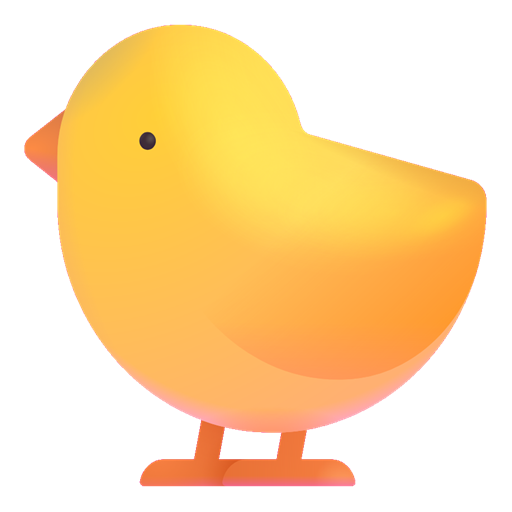
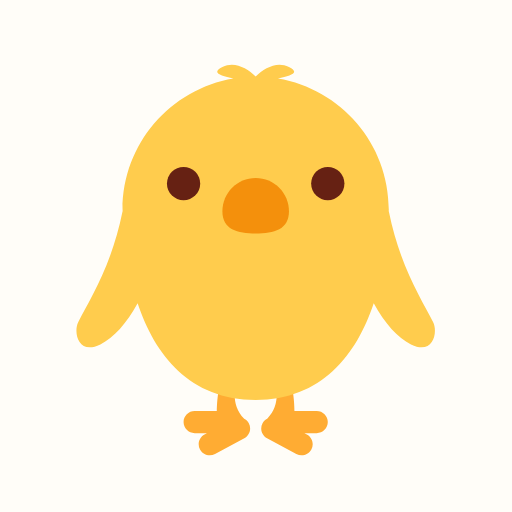
Add files via upload

diff --git a/src/Photo.tsx b/src/Photo.tsx
@@ -2,5 +2,5 @@ import { useState } from 'react'
 import { Thumb } from './Thumb'
 export function Photo({ blob, large = false, alt }: { blob?: Blob; large?: boolean; alt: string }) {
   const [open, setOpen] = useState(false)
-  return <><button type="button" className={large ? 'photo-button large' : 'photo-button'} disabled={!blob} aria-label={`${alt} 사진 확대`} onClick={() => setOpen(true)}><Thumb blob={blob} className={large ? 'representative' : 'record-photo'} alt={alt} fallback="🐥" /></button>{open && <div className="modal-backdrop" onClick={() => setOpen(false)}><section className="modal photo-modal" role="dialog" aria-modal="true" aria-label="사진 확대" onClick={e => e.stopPropagation()}><div className="photo-modal-head"><button type="button" autoFocus onClick={() => setOpen(false)}>닫기</button></div><button type="button" className="expanded-photo-button" aria-label="확대 사진 닫기" onClick={() => setOpen(false)}><Thumb blob={blob} className="expanded-photo" alt={alt} /></button></section></div>}</>
+  return <><button type="button" className={large ? 'photo-button large' : 'photo-button'} disabled={!blob} aria-label={`${alt} 사진 확대`} onClick={() => setOpen(true)}><Thumb blob={blob} className={large ? 'representative' : 'record-photo'} alt={alt} fallback="🐥" /></button>{open && <div className="modal-backdrop" onClick={() => setOpen(false)}><section className="modal photo-modal" role="dialog" aria-modal="true" aria-label="사진 확대" onClick={e => e.stopPropagation()}><div className="photo-modal-head"><button className="btn-ghost" type="button" autoFocus onClick={() => setOpen(false)}>닫기</button></div><button type="button" className="expanded-photo-button" aria-label="확대 사진 닫기" onClick={() => setOpen(false)}><Thumb blob={blob} className="expanded-photo" alt={alt} /></button></section></div>}</>
 }

diff --git a/src/ItemDetail.tsx b/src/ItemDetail.tsx
@@ -194,7 +194,7 @@ export function ItemDetail() {
         <Link className="back" to="/">
           ‹ 위시
         </Link>
-        <div className="detail-header-actions"><button type="button" onClick={() => { setNameDraft(item.name); setNameError(''); setEditOpen(true) }}>수정</button>
+        <div className="detail-header-actions"><button className="btn-ghost" type="button" onClick={() => { setNameDraft(item.name); setNameError(''); setEditOpen(true) }}>수정</button>
         <button className="btn-danger" type="button" onClick={() => void onDeleteItem()}>
           삭제
         </button></div>
@@ -421,8 +421,8 @@ export function ItemDetail() {
         </ol>
       )}
     </div>
-    {editOpen && <div className="modal-backdrop"><section className="modal" role="dialog" aria-modal="true" aria-labelledby="wish-edit-title">
-      <div className="section-row"><h2 id="wish-edit-title">위시 수정</h2><button type="button" disabled={nameSaving} onClick={() => setEditOpen(false)}>취소</button></div>
+    {editOpen && <div className="modal-backdrop"><section className="modal wish-edit-modal" role="dialog" aria-modal="true" aria-labelledby="wish-edit-title">
+      <div className="section-row"><h2 id="wish-edit-title">위시 수정</h2><button className="btn-ghost" type="button" disabled={nameSaving} onClick={() => setEditOpen(false)}>취소</button></div>
       <form onSubmit={async e => {
         e.preventDefault()
         const name = nameDraft.trim()

diff --git a/src/index.css b/src/index.css
@@ -1040,3 +1040,25 @@ label {
 .detail-photo-change{display:flex;justify-content:center;align-items:center;min-height:44px;margin:12px 0 20px}
 
 .photo-modal-head{display:flex;justify-content:flex-end;margin-bottom:10px}.expanded-photo-button{display:block;width:100%;padding:0;border:0;background:transparent;cursor:pointer}.detail-header-actions{display:flex;align-items:center;gap:14px}
+
+/* Match the newly added controls to the existing app theme. */
+.detail-header-actions .btn-ghost,
+.detail-header-actions .btn-danger {
+  min-height: 32px;
+  padding: 0 6px;
+  font-size: 15px;
+  font-weight: 700;
+}
+.wish-edit-modal,
+.photo-modal {
+  background: var(--surface);
+  color: var(--text);
+  border: 1px solid var(--line);
+  box-shadow: var(--shadow);
+}
+.wish-edit-modal .section-row { margin: 0; }
+.wish-edit-modal .field:focus {
+  outline: 2px solid var(--on-fg);
+  outline-offset: 2px;
+}
+.photo-modal-head .btn-ghost { min-height: 32px; }

diff --git a/변경사항.md b/변경사항.md
@@ -40,3 +40,10 @@ npm run dev
 - 사진 확대 팝업 닫기를 오른쪽으로 이동. 확대 사진 재클릭으로 닫기.
 - 상세 사진 변경은 실제 대표사진이 없는 경우에만 표시하며 사진이 생기면 숨깁니다.
 - 상세 상단 수정 버튼과 이름 수정 팝업 추가. 빈 이름 방지, 취소 지원.
+
+## 이번 CSS 수정
+- 상세 상단 수정 버튼에 기존 텍스트 버튼 스타일 적용.
+- 이름 수정 팝업 취소 및 사진 확대 닫기에 동일한 버튼 스타일 적용.
+- 이름 수정·사진 확대 팝업 배경, 글자, 테두리에 현재 테마 적용.
+- 설치용 PNG 아이콘 6개를 앞을 보는 노란 병아리로 통일.
+- 아이콘 원본: Twemoji (https://github.com/jdecked/twemoji), CC BY 4.0 (https://creativecommons.org/licenses/by/4.0/). 배경 및 여백 조정.
